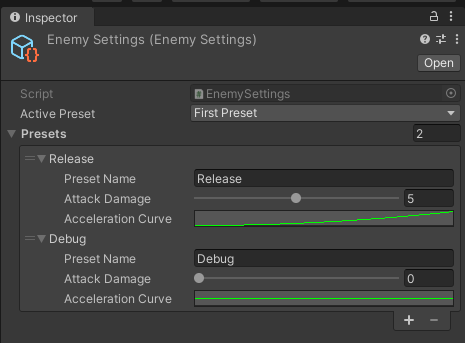
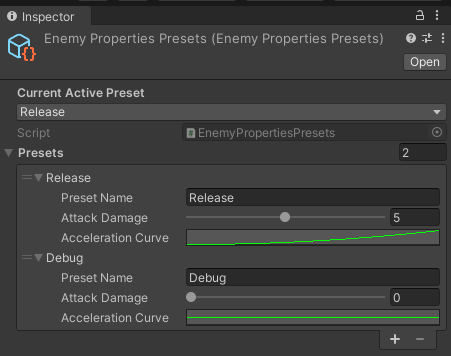
Updated readme and instructions.

diff --git a/README.md b/README.md
@@ -1,29 +1,29 @@
-### Unity GameSettings scriptable objects
+### Unity Properties Presets scriptable objects
 
 Unity version: 2020.3.8f1 LTS
 
-Game settings example:
+Properties Presets example:
 <br />
-![alt text](https://github.com/Gurinette/UnityGameSettings/blob/master/Instructions/Inspector.png?raw=true)
+![alt text](https://github.com/Gurinette/UnityPropertiesPresets/blob/master/Instructions/Inspector.png?raw=true)
 <br />
-Using GameSettings , you can create custom settings for your Unity projects.
-The main benefit of GameSettings is the ability to have multiple presets in a single scriptable object file.
+Using PropertiesPresets , you can create custom presets for your Unity projects.
+The main benefit of PropertiesPresets is the ability to have multiple presets in a single scriptable object file.
 
-Using presets, you can toggle between multiple settings presets and have it reflect in your entire project where you have referenced the scriptable object with ease.
-Some use case scenarios include the ability to toggle between release and debug settings for your game to skip
-things like tutorials for faster iterations, or having multiple presets for an enemy settings to see how different settings feel.
+You can toggle between multiple presets and have it reflect in your entire project where you have referenced the scriptable object with ease.
+Some use case scenarios include the ability to toggle between release and debug presets for your game to skip
+things like tutorials for faster iterations, or having multiple presets for an enemy stats to see how different presets feel.
 
-To create new settings for your game, you simply right click in your project tab, then Create > Game Settings Script.
+To create new presets for your game, you simply right click in your project tab, then Create > Properties Presets Script.
 <br />
-![alt text](https://github.com/Gurinette/UnityGameSettings/blob/master/Instructions/GameSettingsScript.png?raw=true)
+![alt text](https://github.com/Gurinette/UnityPropertiesPresets/blob/master/Instructions/PropertiesPresetsScript.png?raw=true)
 <br />
-Then to create a scriptable object of that new setting, right click > Create > Scriptable Object > Settings > ExampleSettings.
+Then to create a scriptable object of the new Properties Presets, right click > Create > Scriptable Object > Properties Presets > ExamplePropertiesPresets.
 <br />
-![alt text](https://github.com/Gurinette/UnityGameSettings/blob/master/Instructions/GameSettings.png?raw=true)
+![alt text](https://github.com/Gurinette/UnityPropertiesPresets/blob/master/Instructions/PropertiesPresets.png?raw=true)
 <br />
-Finally, to modify the game settings template, you can do so in:
-Assets/ScriptTemplates/100-Game Settings Script-NewGameSettingsScript.cs.txt
+Finally, to modify the PropertiesPresets template, you can do so in:
+Assets/ScriptTemplates/100-Properties Presets Script-NewPropertiesPresets.cs.txt
 
-Feel free to modify any of the files for your projects needs; if you thought of improvements for the presets I would love to hear about them!
+Consider modifying any of the files for your projects needs; if you thought of improvements for the presets I would love to hear about them!
 
 Feel free to use this in any of your projects; no attribution required, but highly appreciated!
